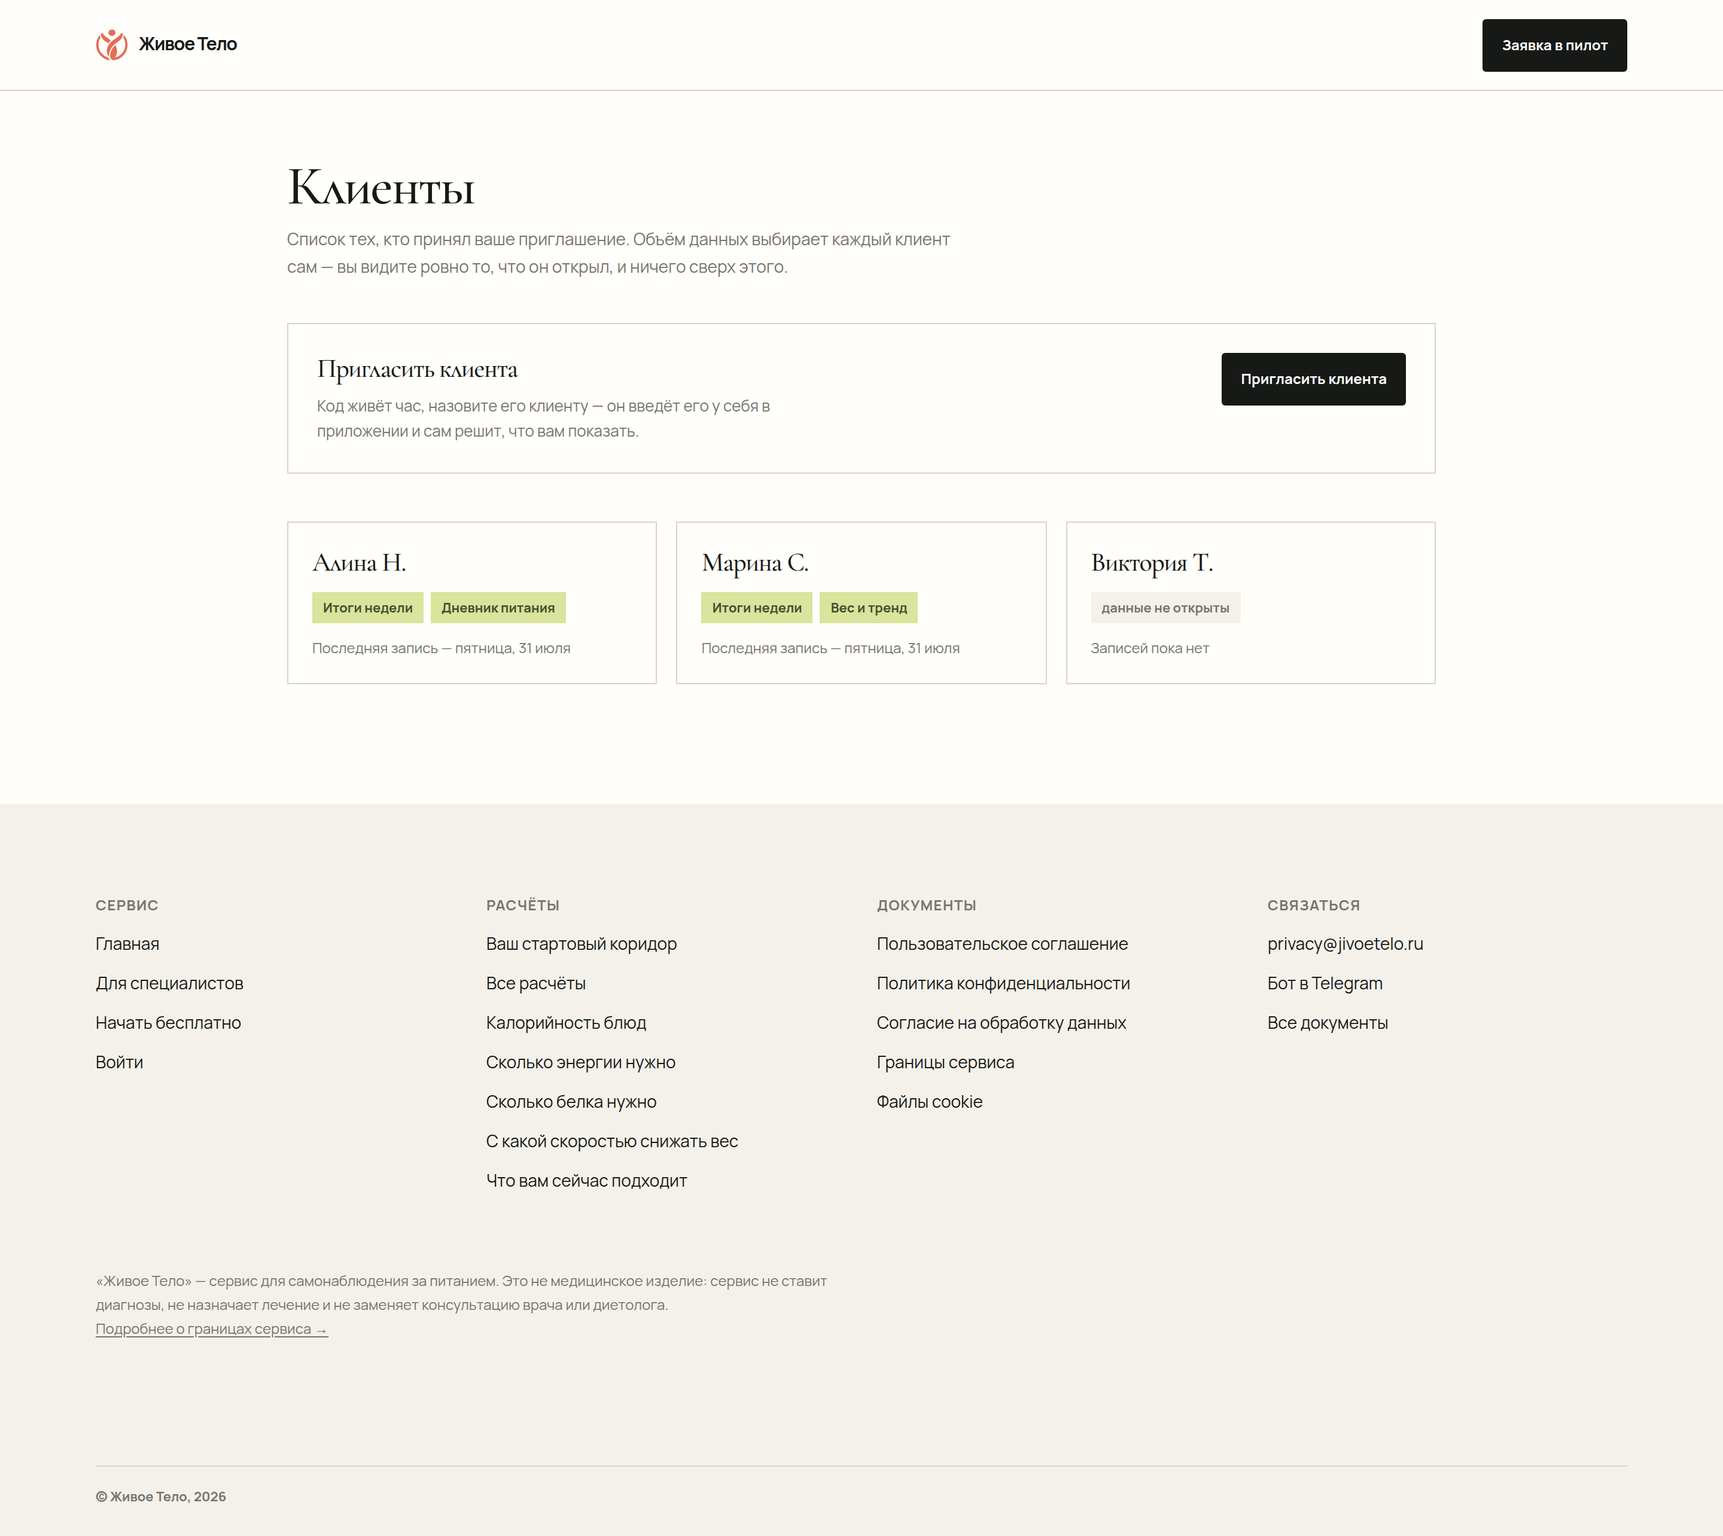
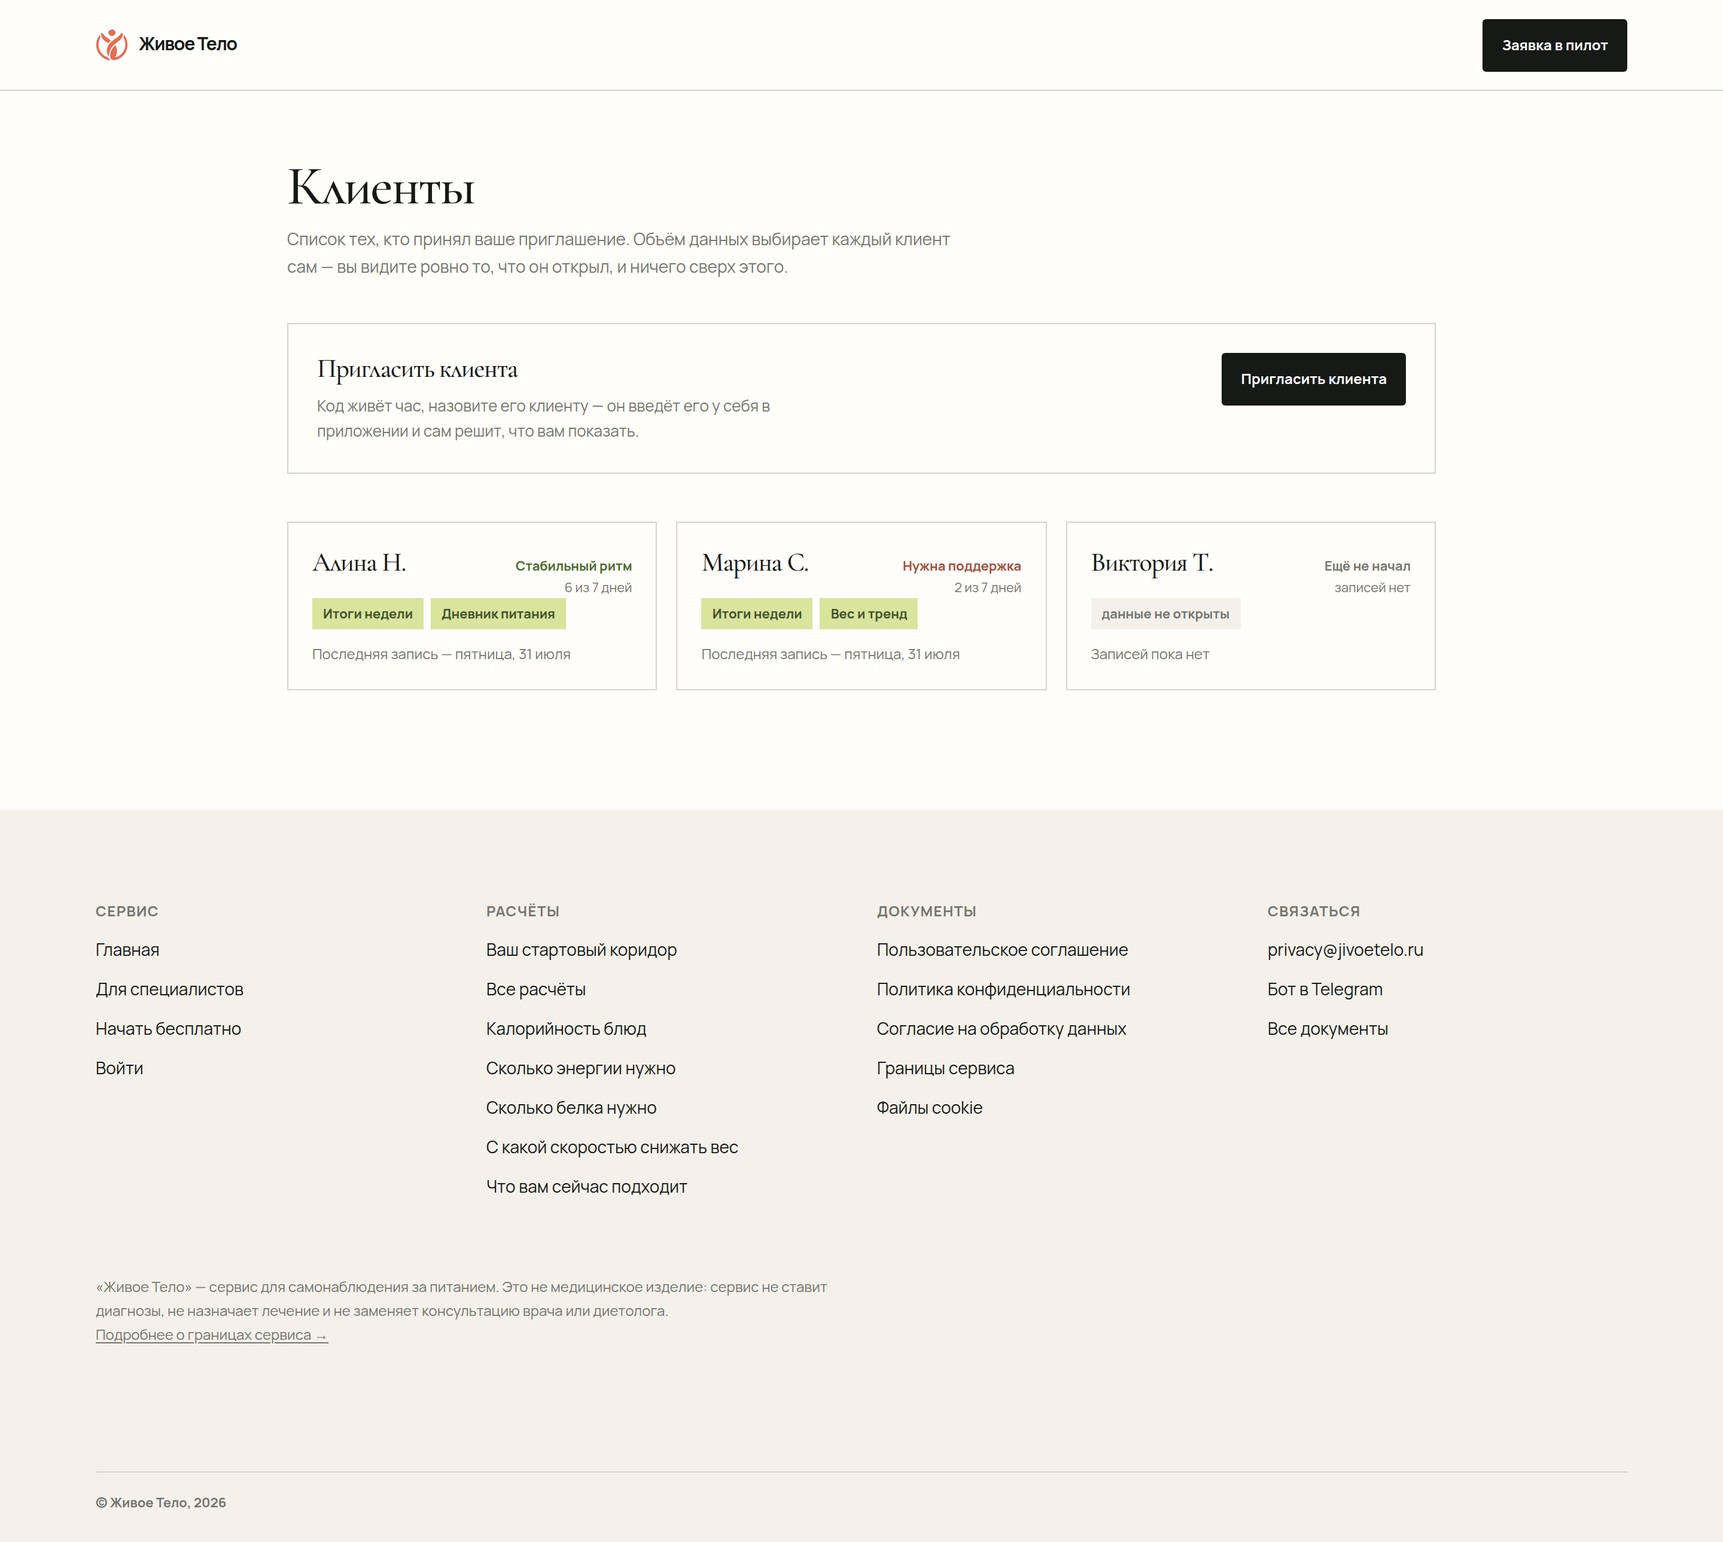
Метки состояния клиента — вместе с основанием
Голый ярлык «Стабильный ритм» — это утверждение о человеке, показанное
третьему лицу: клиент согласился делиться данными, а не быть
охарактеризованным. И аудитория тут профессиональная — нутрициолог, увидевший
«нужна поддержка» у клиента, который в порядке, спишет со счетов не ярлык, а
нас.

Поэтому у каждой метки рядом стоит то, из чего она сделана: «6 из 7 дней»,
«нет записей 9 дн.». Специалист видит основание и может не согласиться, а
цветная метка по-прежнему ведёт взгляд по списку — ради этого она и нужна.

lib/pro/status.ts — правило одной чистой функцией, тестами проверяется в том
числе, что метка никогда не приходит без основания и что в ней нет слов про
волю, дисциплину и срывы.

Отдельный случай — тот, кто ещё не начал. Он не «нужна поддержка»: человек
мог принять приглашение час назад, упрекать его не в чем. И основание для
пропавшего считается по давности, а не как «0 из 7», иначе пропавший вчера и
пропавший месяц назад выглядели бы одинаково.

Число дней с записями считается тем же запросом, что и дата последней записи,
и по той же причине допустимо: это регулярность, а не содержимое дневника.

Блок с приложением: QR переехал вправо от экранов. Внизу слева он оставлял
пустым правое полполосы, и блок читался съехавшим. На узком экране сетка
складывается в одну колонку, QR уступает место кнопке.

Claude-Session: https://claude.ai/code/session_01FfWCYDAfY1bLqGNy6tGekT

diff --git a/lib/pro/store.ts b/lib/pro/store.ts
@@ -11,8 +11,9 @@
  * данными клиента ходят через `withClientScope`, и только так.
  */
 
-import { and, desc, eq, isNull, sql } from "drizzle-orm";
+import { and, desc, eq, gte, isNull, sql } from "drizzle-orm";
 import { getDb } from "../../db/index.ts";
+import { localToday, shiftDay } from "../dates.ts";
 import {
   meals,
   proApplications,
@@ -197,6 +198,8 @@ export type ClientRow = {
   acceptedAt: Date;
   /** Дата последней записи в дневнике. Ничего о содержимом не сообщает. */
   lastMealOn: string | null;
+  /** Дней с записями за последние семь. Тоже о регулярности, а не о еде. */
+  loggedDays: number;
 };
 
 /**
@@ -207,6 +210,10 @@ export type ClientRow = {
  * том, ведётся ли дневник вообще, а не о его содержимом, и без него список
  * бесполезен — специалист не поймёт, с кем работа идёт, а с кем нет. Само
  * содержимое остаётся за `withClientScope`.
+ *
+ * По той же причине считается и число дней с записями за неделю: это
+ * регулярность, а не еда. Из неё складывается метка в списке — и складывается
+ * прозрачно, вместе с основанием (см. `./status.ts`).
  */
 export async function listClients(specialistUserId: number): Promise<ClientRow[]> {
   const lastMeal = getDb()
@@ -215,7 +222,20 @@ export async function listClients(specialistUserId: number): Promise<ClientRow[]
     .groupBy(meals.userId)
     .as("last_meal");
 
-  return await getDb()
+  // Семь дней, считая сегодняшний, — поэтому смещение на шесть.
+  const since = shiftDay(localToday(), -6);
+  const week = getDb()
+    .select({
+      userId: meals.userId,
+      // Именно distinct: три записи за один день — это один день, а не три.
+      days: sql<number>`count(distinct ${meals.eatenOn})`.as("logged_days"),
+    })
+    .from(meals)
+    .where(gte(meals.eatenOn, since))
+    .groupBy(meals.userId)
+    .as("week_logged");
+
+  const rows = await getDb()
     .select({
       clientUserId: specialistClients.clientUserId,
       clientName: specialistClients.clientName,
@@ -224,13 +244,20 @@ export async function listClients(specialistUserId: number): Promise<ClientRow[]
       shareWeight: specialistClients.shareWeight,
       acceptedAt: specialistClients.acceptedAt,
       lastMealOn: lastMeal.lastOn,
+      loggedDays: week.days,
     })
     .from(specialistClients)
     .leftJoin(lastMeal, eq(lastMeal.userId, specialistClients.clientUserId))
+    .leftJoin(week, eq(week.userId, specialistClients.clientUserId))
     .where(
       and(eq(specialistClients.specialistUserId, specialistUserId), isNull(specialistClients.revokedAt)),
     )
     .orderBy(desc(specialistClients.acceptedAt));
+
+  // leftJoin отдаёт null тому, у кого записей за неделю не было; для правил
+  // это ноль, а не «неизвестно». Приводим здесь, чтобы дальше не гадали.
+  // count() в postgres возвращается строкой — Number обязателен.
+  return rows.map((row) => ({ ...row, loggedDays: Number(row.loggedDays ?? 0) }));
 }
 
 /** Одна строка клиента — для экрана клиента в кабинете. */

diff --git a/app/app-invite.tsx b/app/app-invite.tsx
@@ -60,25 +60,30 @@ export function AppInvite({
       <p>{lead}</p>
     </div>
 
-    <div className="invite-shots">
-      {SHOTS.map((shot) => (
-        <figure key={shot.src}>
-          <Image src={shot.src} alt={shot.alt} width={560} height={1212} sizes="(max-width: 850px) 40vw, 280px" />
-          <figcaption>{shot.caption}</figcaption>
-        </figure>
-      ))}
-    </div>
-
-    <div className="invite-enter">
-      {/* Оба входа в разметке, лишний прячет CSS: так правильный виден
-          сразу, а не после того, как отработает скрипт. */}
-      <div className="invite-qr">
-        <Image src={qr} alt={`QR-код со ссылкой на бота ${botLink(start)}`} width={180} height={180} unoptimized />
-        <p>Наведите камеру телефона — откроется Telegram</p>
+    {/* Экраны и вход стоят рядом, а не друг под другом: QR внизу слева
+        оставлял справа пустое поле в половину секции, и блок читался
+        съехавшим. На узком экране сетка складывается в одну колонку. */}
+    <div className="invite-body">
+      <div className="invite-shots">
+        {SHOTS.map((shot) => (
+          <figure key={shot.src}>
+            <Image src={shot.src} alt={shot.alt} width={560} height={1212} sizes="(max-width: 850px) 45vw, 260px" />
+            <figcaption>{shot.caption}</figcaption>
+          </figure>
+        ))}
       </div>
-      <a className="invite-button black-button" href={botLink(start)} target="_blank" rel="noreferrer">
-        Открыть в Telegram <b>↗</b>
-      </a>
+
+      <div className="invite-enter">
+        {/* Оба входа в разметке, лишний прячет CSS: так правильный виден
+            сразу, а не после того, как отработает скрипт. */}
+        <div className="invite-qr">
+          <Image src={qr} alt={`QR-код со ссылкой на бота ${botLink(start)}`} width={180} height={180} unoptimized />
+          <p>Наведите камеру телефона — откроется Telegram</p>
+        </div>
+        <a className="invite-button black-button" href={botLink(start)} target="_blank" rel="noreferrer">
+          Открыть в Telegram <b>↗</b>
+        </a>
+      </div>
     </div>
   </section>;
 }

diff --git a/app/globals.css b/app/globals.css
@@ -201,20 +201,20 @@ label.consent input{width:15px;height:15px;margin:1px 0 0;padding:0;border:0;fle
 .invite-wide{padding-left:max(32px,calc((100% - 1280px)/2));padding-right:max(32px,calc((100% - 1280px)/2))}
 /* Ширина снимка ограничена, а не растянута по колонке: телефон на 400px в
    ширину стал бы 865px в высоту и занял бы экран целиком. */
-.invite-shots{display:grid;grid-template-columns:repeat(3,minmax(0,280px));gap:24px;margin-bottom:40px}
+.invite-body{display:grid;grid-template-columns:minmax(0,1fr) 210px;gap:48px;align-items:center}.invite-shots{display:grid;grid-template-columns:repeat(3,minmax(0,260px));gap:20px}
 .invite-shots figure{margin:0}
 .invite-shots img{display:block;width:100%;height:auto;border:1px solid var(--line);border-radius:10px;background:var(--white)}
 .invite-shots figcaption{margin-top:12px;font-size:12px;line-height:1.5;color:#66675f}
-.invite-enter{display:flex;align-items:center;gap:24px}
-.invite-qr{display:flex;align-items:center;gap:16px}
-.invite-qr img{display:block;width:132px;height:132px;border:1px solid var(--line);border-radius:8px}
-.invite-qr p{max-width:190px;margin:0;font-size:13px;line-height:1.5;color:#5c5e57}
+.invite-enter{display:flex;flex-direction:column;align-items:flex-start;gap:16px}
+.invite-qr{display:flex;flex-direction:column;align-items:flex-start;gap:14px}
+.invite-qr img{display:block;width:180px;height:180px;border:1px solid var(--line);border-radius:8px}
+.invite-qr p{max-width:200px;margin:0;font-size:13px;line-height:1.5;color:#5c5e57}
 /* Кнопка — запасной вход для широкого экрана: там ведущий способ QR. */
 .invite-enter .invite-button{display:none}
 /* На узком экране всё наоборот: свой экран камерой не отсканируешь. */
 @media(max-width:850px){
   .invite{padding:48px 20px}
-  .invite-shots{grid-template-columns:1fr 1fr;gap:14px}
+  .invite-body{grid-template-columns:1fr;gap:28px}.invite-shots{grid-template-columns:1fr 1fr;gap:14px}
   .invite-shots figure:nth-child(3){display:none}
   .invite-qr{display:none}
   .invite-enter .invite-button{display:inline-flex;align-items:center;gap:14px;width:100%;justify-content:center}

diff --git a/app/pro/clients/page.tsx b/app/pro/clients/page.tsx
@@ -2,9 +2,10 @@ import type { Metadata } from "next";
 import Link from "next/link";
 import "../cabinet.css";
 import { getCurrentUser } from "@/lib/auth";
-import { formatDayRu } from "@/lib/dates";
+import { formatDayRu, localToday } from "@/lib/dates";
 import { grantedScopes, SCOPE_LABELS, type ClientLink } from "@/lib/pro/access";
 import { getSpecialistProfile, requireApprovedSpecialist } from "@/lib/pro/guard";
+import { clientStatus } from "@/lib/pro/status";
 import { listClients } from "@/lib/pro/store";
 import { InvitePanel } from "./invite-panel";
 
@@ -77,6 +78,7 @@ export default async function ClientsPage() {
   }
 
   const now = new Date();
+  const today = localToday();
   const clients = await listClients(specialist.userId);
 
   return (
@@ -113,11 +115,25 @@ export default async function ClientsPage() {
               revokedAt: null,
             };
             const scopes = grantedScopes(link, now);
+            // Метка — вместе с основанием, из которого она сделана. Голый
+            // ярлык был бы утверждением о человеке, показанным третьему лицу:
+            // клиент согласился делиться данными, а не быть охарактеризованным.
+            const status = clientStatus({
+              loggedDays: client.loggedDays,
+              lastMealOn: client.lastMealOn,
+              today,
+            });
 
             return (
               <li key={client.clientUserId}>
                 <Link className="pro-cab-card" href={`/pro/clients/${client.clientUserId}`}>
-                  <h2>{client.clientName || "Без имени"}</h2>
+                  <div className="pro-cab-title">
+                    <h2>{client.clientName || "Без имени"}</h2>
+                    <p className={`pro-cab-status pro-cab-status-${status.kind}`}>
+                      <b>{status.label}</b>
+                      <span>{status.basis}</span>
+                    </p>
+                  </div>
                   <div className="pro-cab-chips">
                     {scopes.length === 0
                       ? <span className="pro-cab-chip pro-cab-chip-muted">данные не открыты</span>

diff --git a/app/pro/cabinet.css b/app/pro/cabinet.css
@@ -106,3 +106,41 @@
   .pro-cab-week{flex-wrap:wrap}
   .pro-cab-week div{min-width:calc(100%/4 - 5px)}
 }
+
+/* Метка состояния клиента. Показывается вместе с основанием — цвет ведёт
+   взгляд по списку, а мелкая строка под ним говорит, из чего вывод сделан.
+   Без основания это было бы утверждение о человеке, которое нечем подкрепить. */
+.pro-cab-title {
+  display: flex;
+  align-items: baseline;
+  justify-content: space-between;
+  gap: 16px;
+}
+
+.pro-cab-status {
+  flex: none;
+  margin: 0;
+  text-align: right;
+}
+
+.pro-cab-status b {
+  display: block;
+  font-size: 11px;
+  font-weight: 800;
+}
+
+.pro-cab-status span {
+  display: block;
+  margin-top: 2px;
+  font-size: 11px;
+  color: var(--muted);
+}
+
+.pro-cab-status-steady b { color: #4c6b33; }
+.pro-cab-status-attention b { color: #a2503c; }
+.pro-cab-status-idle b { color: var(--muted); }
+
+@media (max-width: 850px) {
+  .pro-cab-title { flex-direction: column; align-items: flex-start; gap: 6px; }
+  .pro-cab-status { text-align: left; }
+}
